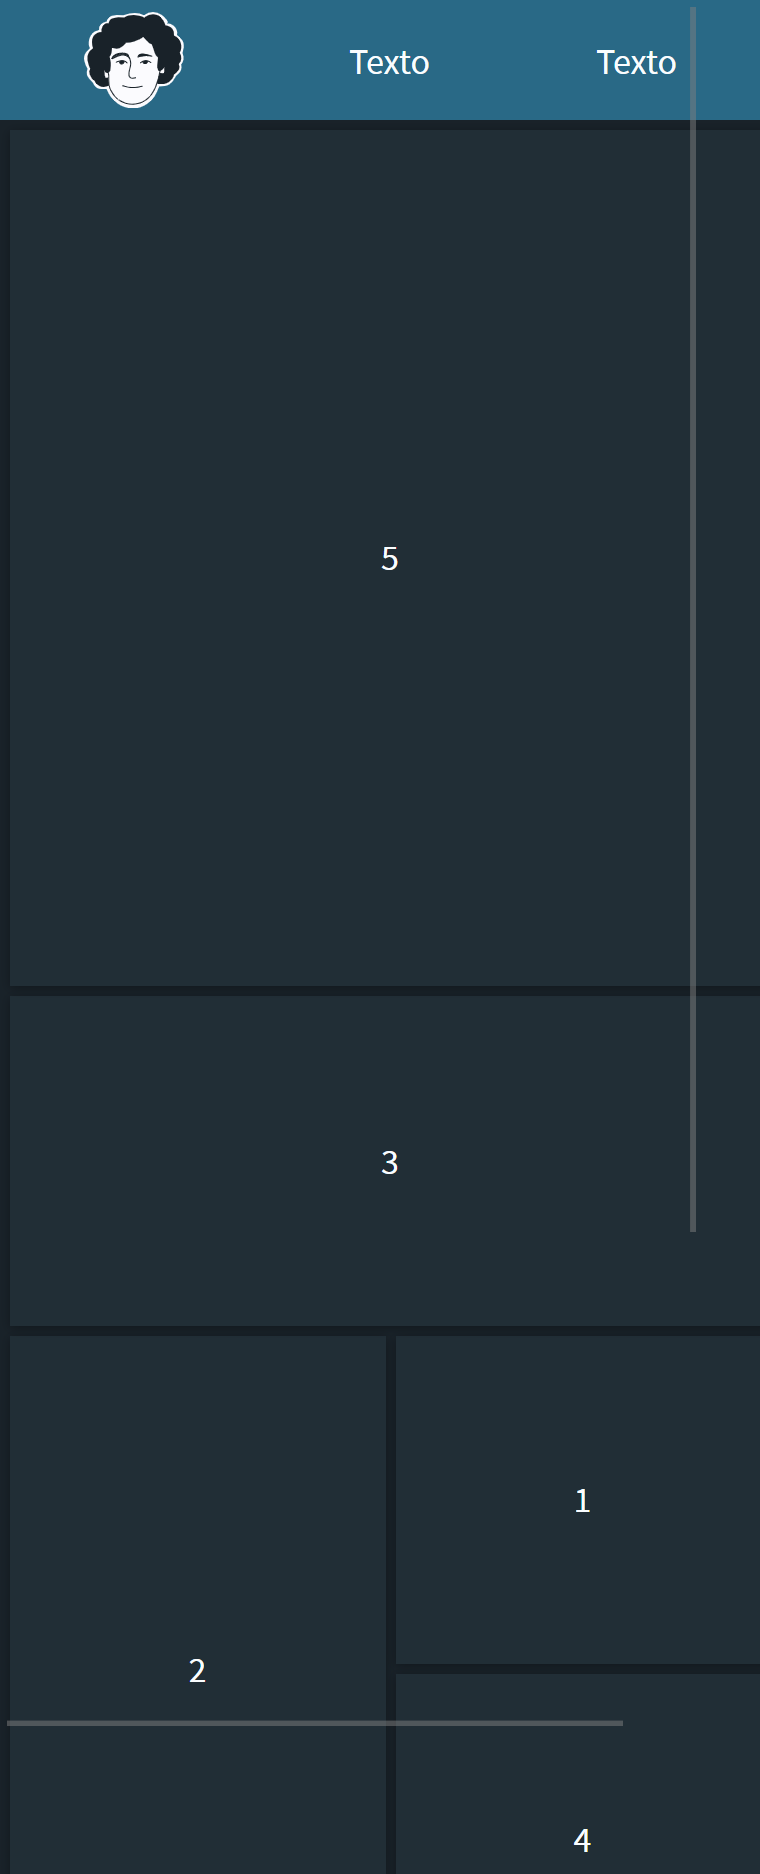
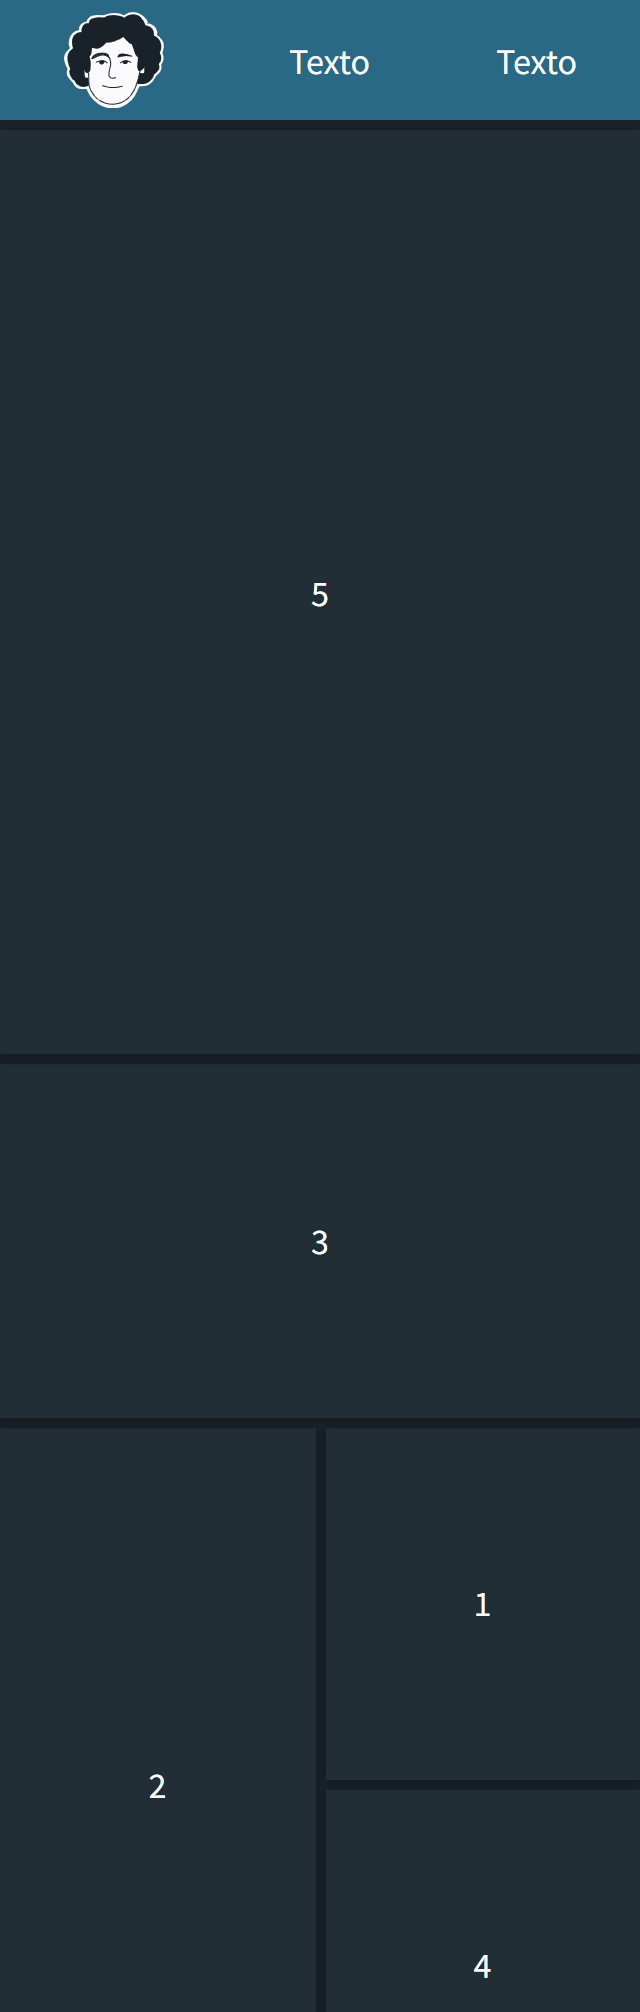
Agregué nuevas medidas y diseños

diff --git a/css/style.css b/css/style.css
@@ -51,25 +51,25 @@ body{
     display: flex;
     align-items: flex-end;
     justify-content: center;
-    padding-bottom: 3rem;
+    padding-bottom: 5rem;
 }
 .main--container{
     display: grid;
     justify-content: center;
-    gap: 5px;
+    gap: .5rem;
     grid-template-columns: repeat(4, 1fr);
     grid-template-areas:    "five five three three"
                             "five five two one"
                             "five five two four";
     width: 100vw;
     height: 100vh;
-    margin: 5px;
+    margin: .5rem;
 }
 .item{
     align-items: center;
     background: var(--background-components);
     display: flex;
-    padding: 5px;
+    padding: .5rem;
     justify-content: center;
     box-shadow: 0px 1px 5px rgba(10, 14, 17, 0.527);
 }
@@ -103,6 +103,9 @@ body{
 @media screen and (max-width: 480px){
     .main{
         flex-direction: column-reverse;
+    }
+    .main--container{
+        margin: .5rem 0;
     }
     .main--aside{
         width: 100%;
